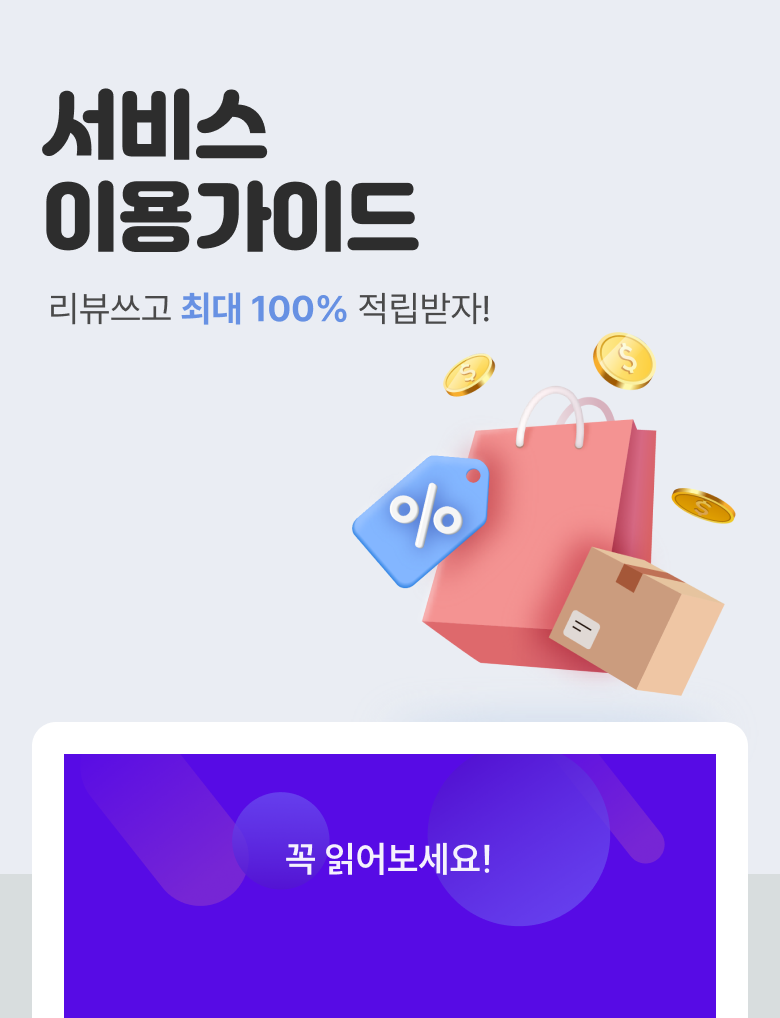
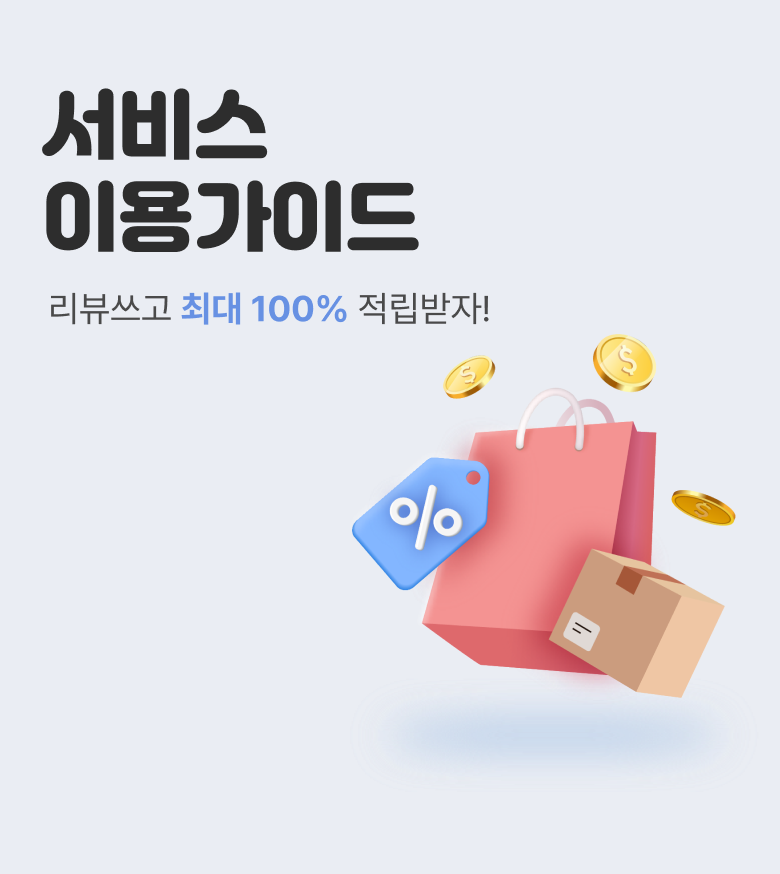
서비스 이용가이드 page 수정

diff --git a/src/pages/views/MyPageDetail/MyServicePage.tsx b/src/pages/views/MyPageDetail/MyServicePage.tsx
@@ -3,11 +3,19 @@ import ReuseHeader from "@/components/ReuseHeader"
 import { RoutePath } from "@/types/route-path"
 import { useNavigate } from "react-router-dom"
 import styled from "styled-components"
-import guideImg from "assets/guide-top.png"
-import guideTab01 from "assets/guide-tab-01.png"
-import guideTab02 from "assets/guide-tab-02.png"
+import guideTop from "assets/guide-top.png"
+import guideTopBg from "assets/guide-top-bg.png"
+import guideTab01_01 from "assets/guide01-step01.png"
+import guideTab01_02 from "assets/guide01-step02.png"
+import guideTab01_03 from "assets/guide01-step03.png"
+import guideTab01_04 from "assets/guide01-step04.png"
+import guideTab01_05 from "assets/guide01-step05.png"
+import guideTab02_01 from "assets/guide02-step01.png"
+import guideTab02_02 from "assets/guide02-step02.png"
+import guideTab02_03 from "assets/guide02-step03.png"
+import guideTab02_04 from "assets/guide02-step04.png"
 
-const MypageServicePage = () => {
+const MyServicePage = () => {
   const navigate = useNavigate()
 
   // 활성화된 탭 상태
@@ -25,48 +33,136 @@ const MypageServicePage = () => {
         onBack={() => navigate(RoutePath.UserProfile, { replace: true })}
       />
       <GuideTop>
-        <GuideImage src={guideImg} alt="서비스 이용가이드" />
-        {/* 탭메뉴 */}
-        <TabList>
-          <TabItem
-            className={activeTab === "tab01" ? "on" : ""}
-            onClick={() => handleTabClick("tab01")}
-          >
-            상품구매
-          </TabItem>
-          <TabItem
-            className={activeTab === "tab02" ? "on" : ""}
-            onClick={() => handleTabClick("tab02")}
-          >
-            리뷰작성 및 등록
-          </TabItem>
-        </TabList>
+        <GuideImage src={guideTop} alt="서비스 이용가이드" />
       </GuideTop>
 
       <GuideWrap>
-        {/* 메인 컨텐츠 */}
-        <TabContent
-          id="tab01"
-          className={activeTab === "tab01" ? "on" : "tabcont"}
-        >
-          <div>
-            <img src={guideTab01} alt="상품구매 가이드" />
-          </div>
-        </TabContent>
-        <TabContent
-          id="tab02"
-          className={activeTab === "tab02" ? "on" : "tabcont"}
-        >
-          <div>
-            <img src={guideTab02} alt="리뷰작성 및 등록 가이드" />
-          </div>
-        </TabContent>
+        <GuideCont>
+          {/* 탭메뉴 */}
+          <TabBg>
+            <p>꼭 읽어보세요!</p>
+            <TabList>
+              <TabItem
+                className={activeTab === "tab01" ? "on" : ""}
+                onClick={() => handleTabClick("tab01")}
+              >
+                상품구매
+              </TabItem>
+              <TabItem
+                className={activeTab === "tab02" ? "on" : ""}
+                onClick={() => handleTabClick("tab02")}
+              >
+                리뷰작성 및 등록
+              </TabItem>
+            </TabList>
+          </TabBg>
+
+          {/* 메인 컨텐츠 */}
+          <TabContent
+            id="tab01"
+            className={activeTab === "tab01" ? "on" : "tabcont"}
+          >
+            <StepCont>
+              <h4>STEP1. 캠페인 신청</h4>
+              <p>
+                캠페인 신청 후<span>1시간 이내</span>
+                <br /> 구매 및 영수증인증을 완료해주셔야 합니다.
+              </p>
+              <ImgBox src={guideTab01_01} alt="STEP1. 캠페인 신청" />
+            </StepCont>
+            <StepCont>
+              <h4>STEP2. 상품 구매</h4>
+              <p>
+                &#91;나의 캠페인&#93; &gt; '상품 구매' &gt; '구매하러 가기'
+                <br />
+                <em>
+                  ※ 반드시 리뷰클릭에서 제공하는 상품 URL로 접속 후 선구매를
+                  진행해주세요.
+                </em>
+              </p>
+              <ImgBox src={guideTab01_02} alt="STEP2. 상품 구매" />
+            </StepCont>
+            <StepCont>
+              <h4>STEP3. 상품 결제내역 확인</h4>
+              <p>
+                &#91;네이버 앱/웹&#93; &gt; 'pay' 아이콘 &gt; 하단 '결제' 아이콘
+                &gt; 결제한 상품의 '주문상세' 혹은 '결제상세' 클릭
+              </p>
+              <ImgBox src={guideTab01_03} alt="STEP3. 상품 결제내역 확인" />
+            </StepCont>
+            <StepCont>
+              <h4>STEP4. 구매영수증 캡쳐</h4>
+              <p>'영수증' &gt; '구매영수증' &gt; 구매영수증 캡쳐</p>
+              <ImgBox src={guideTab01_04} alt="STEP4. 구매영수증 캡쳐" />
+              <p>
+                <em>※ 샘플 영수증과 동일하게 이미지 캡쳐</em>
+              </p>
+            </StepCont>
+            <StepCont>
+              <h4>STEP5. 구매영수증 업로드</h4>
+              <p>&#91;나의 캠페인&#93; &gt; '상품구매' &gt; '이미지 업로드'</p>
+              <ImgBox src={guideTab01_05} alt="STEP5. 구매영수증 업로드" />
+            </StepCont>
+          </TabContent>
+          <TabContent
+            id="tab02"
+            className={activeTab === "tab02" ? "on" : "tabcont"}
+          >
+            <StepCont>
+              <h4>STEP1. 리뷰 작성</h4>
+              <p>
+                &#91;나의 캠페인&#93; &gt;
+                <em>
+                  ※ 리뷰 등록 시 첫 줄에 &lt;협찬&gt; 문구를 입력해주세요.
+                </em>
+              </p>
+              <span>
+                긍정적인 경험을 바탕으로 작성해주세요.(100~180자 이내)
+              </span>
+              <ImgBox src={guideTab02_01} alt="STEP1. 리뷰 작성" />
+            </StepCont>
+            <StepCont>
+              <h4>STEP2. 리뷰 AI 검수</h4>
+              <p>
+                1. 긍정인 경우: 리뷰 검수 완료 <br />
+                2. 부정/중립인 경우: 리뷰 재수정 진행
+              </p>
+              <ImgBox src={guideTab02_02} alt="STEP2. 리뷰 AI 검수" />
+            </StepCont>
+            <StepCont>
+              <h4>STEP3. 리뷰 등록 후 캡쳐</h4>
+              <p>
+                [나의 캠페인] &gt; '리뷰등록' &gt; '등록하러가기(자동복사)' &gt;
+                '리뷰쓰기' &gt; 검수완료 된 내용 붙여넣기
+              </p>
+              <ImgBox src={guideTab02_03} alt="STEP3. 리뷰 등록 후 캡쳐" />
+              <p>
+                <em>
+                  ※ 네이버 리뷰 상세 페이지 &gt; 리뷰 탭 &gt; 최신순 정렬 등록한
+                  리뷰 캡쳐
+                </em>
+              </p>
+            </StepCont>
+            <StepCont>
+              <h4>STEP4. 리뷰 캡쳐본 업로드</h4>
+              <p>
+                [나의 캠페인] &gt; '리뷰등록' &gt; '이미지 업로드'
+                <br />
+                <em>
+                  ※ 적립된 포인트는 '마이페이지' &gt; '포인트 적립내역' 에서
+                  확인할 수 있습니다.
+                </em>
+              </p>
+              <ImgBox src={guideTab02_04} alt="STEP4. 리뷰 캡쳐본 업로드" />
+            </StepCont>
+          </TabContent>
+        </GuideCont>
       </GuideWrap>
     </>
   )
 }
 
-export default MypageServicePage
+export default MyServicePage
 
 const GuideImage = styled.img`
   width: 100%;
@@ -79,24 +175,42 @@ const GuideTop = styled.div`
 
 const GuideWrap = styled.div`
   position: relative;
+  padding-bottom: 12rem;
+  top: -8rem;
+  background: var(--n80-color);
+`
+
+const GuideCont = styled.div`
+  position: relative;
+  z-index: 1;
+  padding: 1.6rem 1.6rem 4.6rem;
+  background: var(--white);
+  border-radius: 1.2rem;
+`
+
+const TabBg = styled.div`
+  padding-top: 4rem;
+  text-align: center;
+  font-size: var(--font-h3-size);
+  font-weight: var(--font-h3-weight);
+  letter-spacing: var(--font-h3-letter-spacing);
+  background: url("${guideTopBg}") no-repeat center / cover;
+  color: rgba(255, 255, 255, 0.94);
 `
 
 const TabList = styled.ul`
-  width: 100%;
-  padding: 0 3.3rem;
-  position: absolute;
-  bottom: 0;
-  left: 0;
+  margin-top: 3rem;
   display: flex;
-  justify-content: space-around;
-  list-style: none;
+  align-items: center;
+  justify-content: space-between;
 `
 
 const TabItem = styled.li`
   width: 50%;
-  padding: 1.1rem;
+  padding: 0.9rem 0;
   cursor: pointer;
   text-align: center;
+  letter-spacing: var(--font-title-letter-spacing);
   background-color: var(--whitesmoke);
   border-radius: 2.2rem 2.2rem 0 0;
   font-weight: var(--font-weight-medium);
@@ -114,4 +228,50 @@ const TabContent = styled.div`
   &.on {
     display: block;
   }
+`
+
+const StepCont = styled.div`
+  padding-top: 7.5rem;
+  display: flex;
+  flex-direction: column;
+  justify-content: center;
+  align-items: center;
+  text-align: center;
+
+  h4 {
+    padding: 0.5rem 1.6rem;
+    font-size: var(--font-title-size);
+    font-weight: var(--font-title-weight);
+    letter-spacing: var(--font-title-letter-spacing);
+    border-radius: 3rem;
+    color: var(--white);
+    background: var(--purple);
+  }
+  p {
+    margin-top: 2rem;
+    padding: 0 0.5rem;
+    font-size: var(--font-title-size);
+    font-weight: var(--font-title-weight);
+    letter-spacing: var(--font-title-letter-spacing);
+    color: var(--n600-color);
+    em {
+      color: var(--purple);
+    }
+    span {
+      color: var(--prim-L300);
+    }
+  }
+  span {
+    margin-top: 3rem;
+    font-size: var(--font-caption-size);
+    font-weight: var(--font-caption-weight);
+    letter-spacing: var(--font-caption-letter-spacing);
+    color: var(--n300-color);
+  }
+`
+
+const ImgBox = styled.img`
+  margin-top: 2rem;
+  max-width: 15.5rem;
+  width: 100%;
 `
